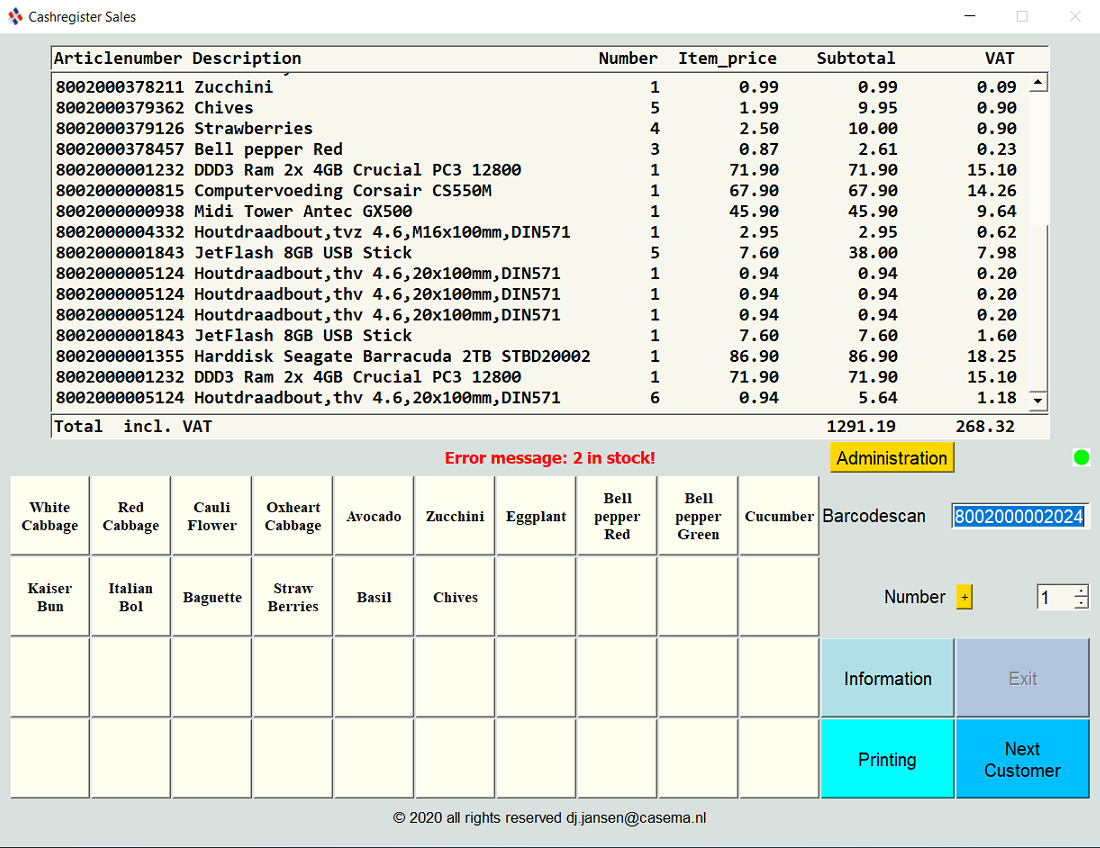
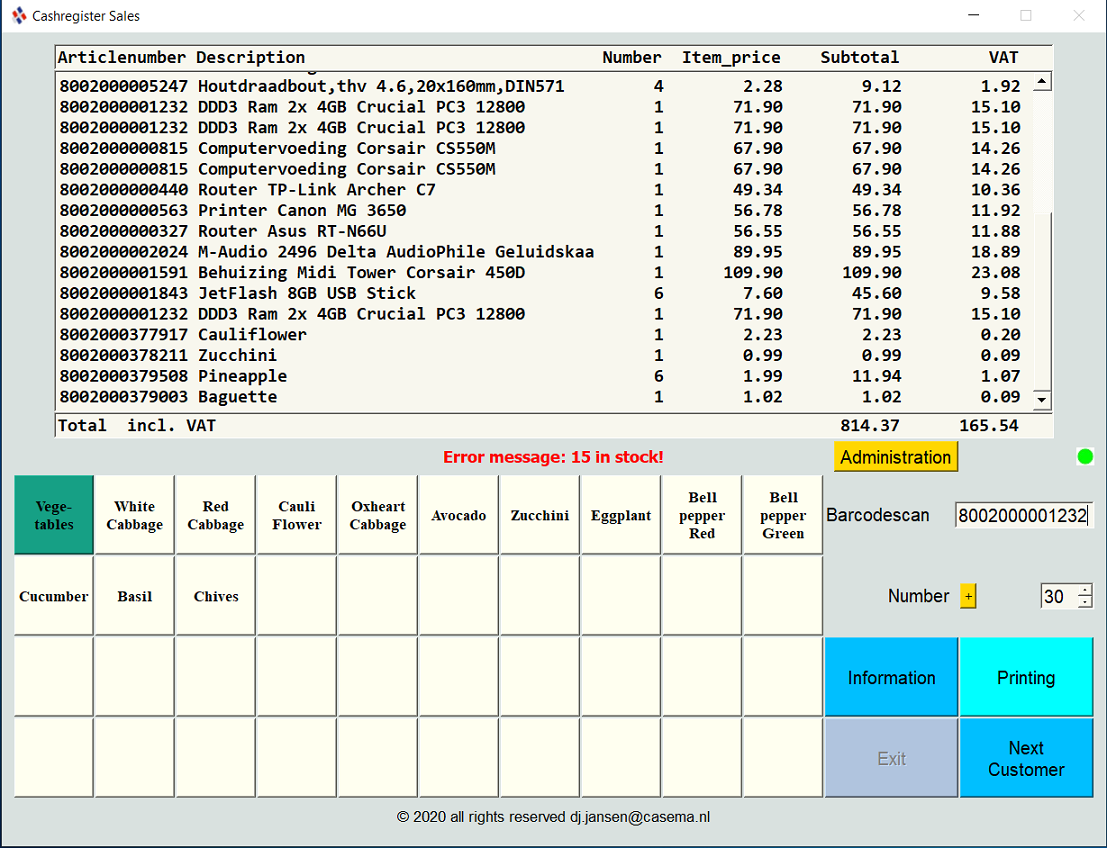
Add files via upload

diff --git a/sales.py b/sales.py
@@ -721,7 +721,7 @@ def articleRequest(self, mflag):
                     def insBtnText():
                         mbtnnr = int(self.q2Edit.text())
                         mbtntext = self.q3Edit.toPlainText()
-                        if len(mbtntext) > 20:
+                        if len(mbtntext) > 30:
                             alertText()
                         elif mbtnnr and mbtntext:
                             updbtn = update(buttons).where(buttons.c.buttonID==mbtnnr).\
@@ -1951,7 +1951,7 @@ def newBarcode(self):
                 mvat = self.q12Edit.currentText()
                 mbtnnr = int(self.q13Edit.text())
                 mbtntext = self.q14Edit.toPlainText()
-                if len(mbtntext) > 20:
+                if len(mbtntext) > 30:
                     alertText()
                 elif mdescr and mprice and mcat and mbtnnr and mbtntext:
                     insart = insert(articles).values(barcode=str(mbarcode),\
@@ -3634,48 +3634,76 @@ def barcodeScan():
             lbl2.setFont(QFont("Arial", 12))
             grid.addWidget(lbl2, 8, 9, 1, 4, Qt.AlignCenter)
             grid.addWidget(self.qspin, 8, 11, 1, 1, Qt.AlignRight)
-            
-            metadata = MetaData()
-            params = Table('params', metadata,
-                Column('paramID', Integer(), primary_key=True),
-                Column('item', String),
-                Column('value', Float))
-                  
+                    
             metadata = MetaData()
             buttons = Table('buttons', metadata,
                 Column('buttonID', Integer(), primary_key=True),
                 Column('buttontext', String),
                 Column('barcode',  None, ForeignKey('articles.barcode')))
-                                          
-            selbtn = select([buttons]).order_by(buttons.c.buttonID)
-            rpbtn = con.execute(selbtn)
-  
-            # insert 32 programmable articlebuttons
-            a = 0
-            btnlist = []
-            for row in rpbtn:
-                aBtn = QPushButton(row[1].strip())
-                aBtn.setFont(QFont("Times", 10, 75))
-                aBtn.setStyleSheet('color: black; background-color:  #FFFFF0')
-                aBtn.setFocusPolicy(Qt.NoFocus)
-                aBtn.setFixedSize(90, 90)
-                btnlist.append(row[2].strip())
-                if a < 10:
-                    grid.addWidget(aBtn, 7, a)
-                elif a < 20:
-                    grid.addWidget(aBtn, 8, a%10)
-                elif a < 30:
-                    grid.addWidget(aBtn, 9, a%10)
-                elif a < 40:
-                    grid.addWidget(aBtn, 10,a%10)
-                 
-                aBtn.clicked.connect(lambda checked, btn = btnlist[a] : getbarcode(btn))
-                a += 1
+            btngroup = 0
+            
+            #insert 39 x3 programmable articlebuttons
+            def btngroupChange(btngroup):
+                if btngroup == 3:
+                   btngroup = 1
+                else:
+                   btngroup += 1
                 
+                if btngroup == 1:
+                    index = 0
+                    selbtn = select([buttons]).where(and_(buttons.c.buttonID>index-1, buttons.c.buttonID<index+40))\
+                     .order_by(buttons.c.buttonID)
+                    hBtn = QPushButton(rppar[5][1].strip())
+                    hBtn.setStyleSheet('color: black; background-color:  #16a085')
+                elif btngroup == 2:
+                    index = 40
+                    selbtn = select([buttons]).where(and_(buttons.c.buttonID>index-1, buttons.c.buttonID<index+40))\
+                      .order_by(buttons.c.buttonID)
+                    hBtn = QPushButton(rppar[6][1].strip())
+                    hBtn.setStyleSheet('color: black; background-color:  #f39c12')
+                elif btngroup == 3:
+                    index = 80
+                    selbtn = select([buttons]).where(and_(buttons.c.buttonID>index-1, buttons.c.buttonID<index+40))\
+                      .order_by(buttons.c.buttonID)
+                    hBtn = QPushButton(rppar[7][1].strip())
+                    hBtn.setStyleSheet('color: black; background-color:  #ca6f1e')
+                hBtn.setFont(QFont("Times", 10, 75))
+                hBtn.setFocusPolicy(Qt.NoFocus)
+                hBtn.setFixedSize(90, 90)
+                grid.addWidget(hBtn, 7, 0)
+                
+                hBtn.clicked.connect(lambda: btngroupChange(btngroup))
+                
+                a = index
+                rpbtn = con.execute(selbtn)
+                
+                btnlist = []
+                for row in rpbtn:
+                    aBtn = QPushButton(row[1].strip())
+                    aBtn.setFont(QFont("Times", 10, 75))
+                    aBtn.setStyleSheet('color: black; background-color:  #FFFFF0')
+                    aBtn.setFocusPolicy(Qt.NoFocus)
+                    aBtn.setFixedSize(90, 90)
+                    btnlist.append(row[2].strip())
+                    if a < index+10 and (a%10 > 0):
+                        grid.addWidget(aBtn, 7, a%10)
+                    elif a < index+20:
+                        grid.addWidget(aBtn, 8, a%10)
+                    elif a < index+30:
+                        grid.addWidget(aBtn, 9, a%10)
+                    elif a < index+40:
+                        grid.addWidget(aBtn, 10, a%10)
+                         
+                    aBtn.clicked.connect(lambda checked, btn = btnlist[a%40] : getbarcode(btn))
+                    a += 1
+                    
+            btngroup = 0  
+            btngroupChange(btngroup)
+                                         
             def getbarcode(btn):
                 self.q1Edit.setText(btn)
                 keyboard.write('\n')
-                   
+                                   
             self.plusminBtn = QPushButton('+')
             self.plusminBtn.setCheckable(True)
             self.plusminBtn.setStyleSheet("color: black;  background-color: #FFD700")
@@ -3693,7 +3721,7 @@ def barcodeScan():
             self.printBtn.setFixedSize(150,90)
             self.printBtn.setStyleSheet("color: black;  background-color: #00FFFF")
       
-            grid.addWidget(self.printBtn, 10, 10, 1, 1, Qt.AlignRight)
+            grid.addWidget(self.printBtn, 9, 11, 1, 1, Qt.AlignRight)
             
             self.adminBtn = QPushButton('Administration')
             self.adminBtn.setFocusPolicy(Qt.NoFocus)
@@ -3710,16 +3738,16 @@ def barcodeScan():
             self.closeBtn.setFont(QFont("Arial",12))
             self.closeBtn.setFocusPolicy(Qt.NoFocus)
             self.closeBtn.setFixedSize(150,90)
-            self.closeBtn.setStyleSheet("color: black; background-color: #B0C4DE")
+            self.closeBtn.setStyleSheet("color: black; background-color:   #45b39d")
 
-            grid.addWidget(self.closeBtn, 9, 11, 1, 1, Qt.AlignRight)
+            grid.addWidget(self.closeBtn, 10, 10, 1, 1, Qt.AlignRight)
                                   
             infoBtn = QPushButton('Information')
             infoBtn.clicked.connect(lambda: info())
             infoBtn.setFont(QFont("Arial",12))
             infoBtn.setFocusPolicy(Qt.NoFocus)
             infoBtn.setFixedSize(150,90)
-            infoBtn.setStyleSheet("color: black;  background-color: #B0E0E6")
+            infoBtn.setStyleSheet("color: black;  background-color: #00BFFF")
     
             grid.addWidget(infoBtn, 9, 10, 1, 1, Qt.AlignRight )
            
@@ -3728,7 +3756,7 @@ def barcodeScan():
             self.nextBtn.setFont(QFont("Arial",12))
             self.nextBtn.setFocusPolicy(Qt.NoFocus)
             self.nextBtn.setFixedSize(150,90)            
-            self.nextBtn.setStyleSheet("color:black; background-color: #00BFFF")
+            self.nextBtn.setStyleSheet("color:black; background-color: #3498db")
     
             grid.addWidget(self.nextBtn, 10, 11, 1, 1, Qt.AlignRight)   
             
